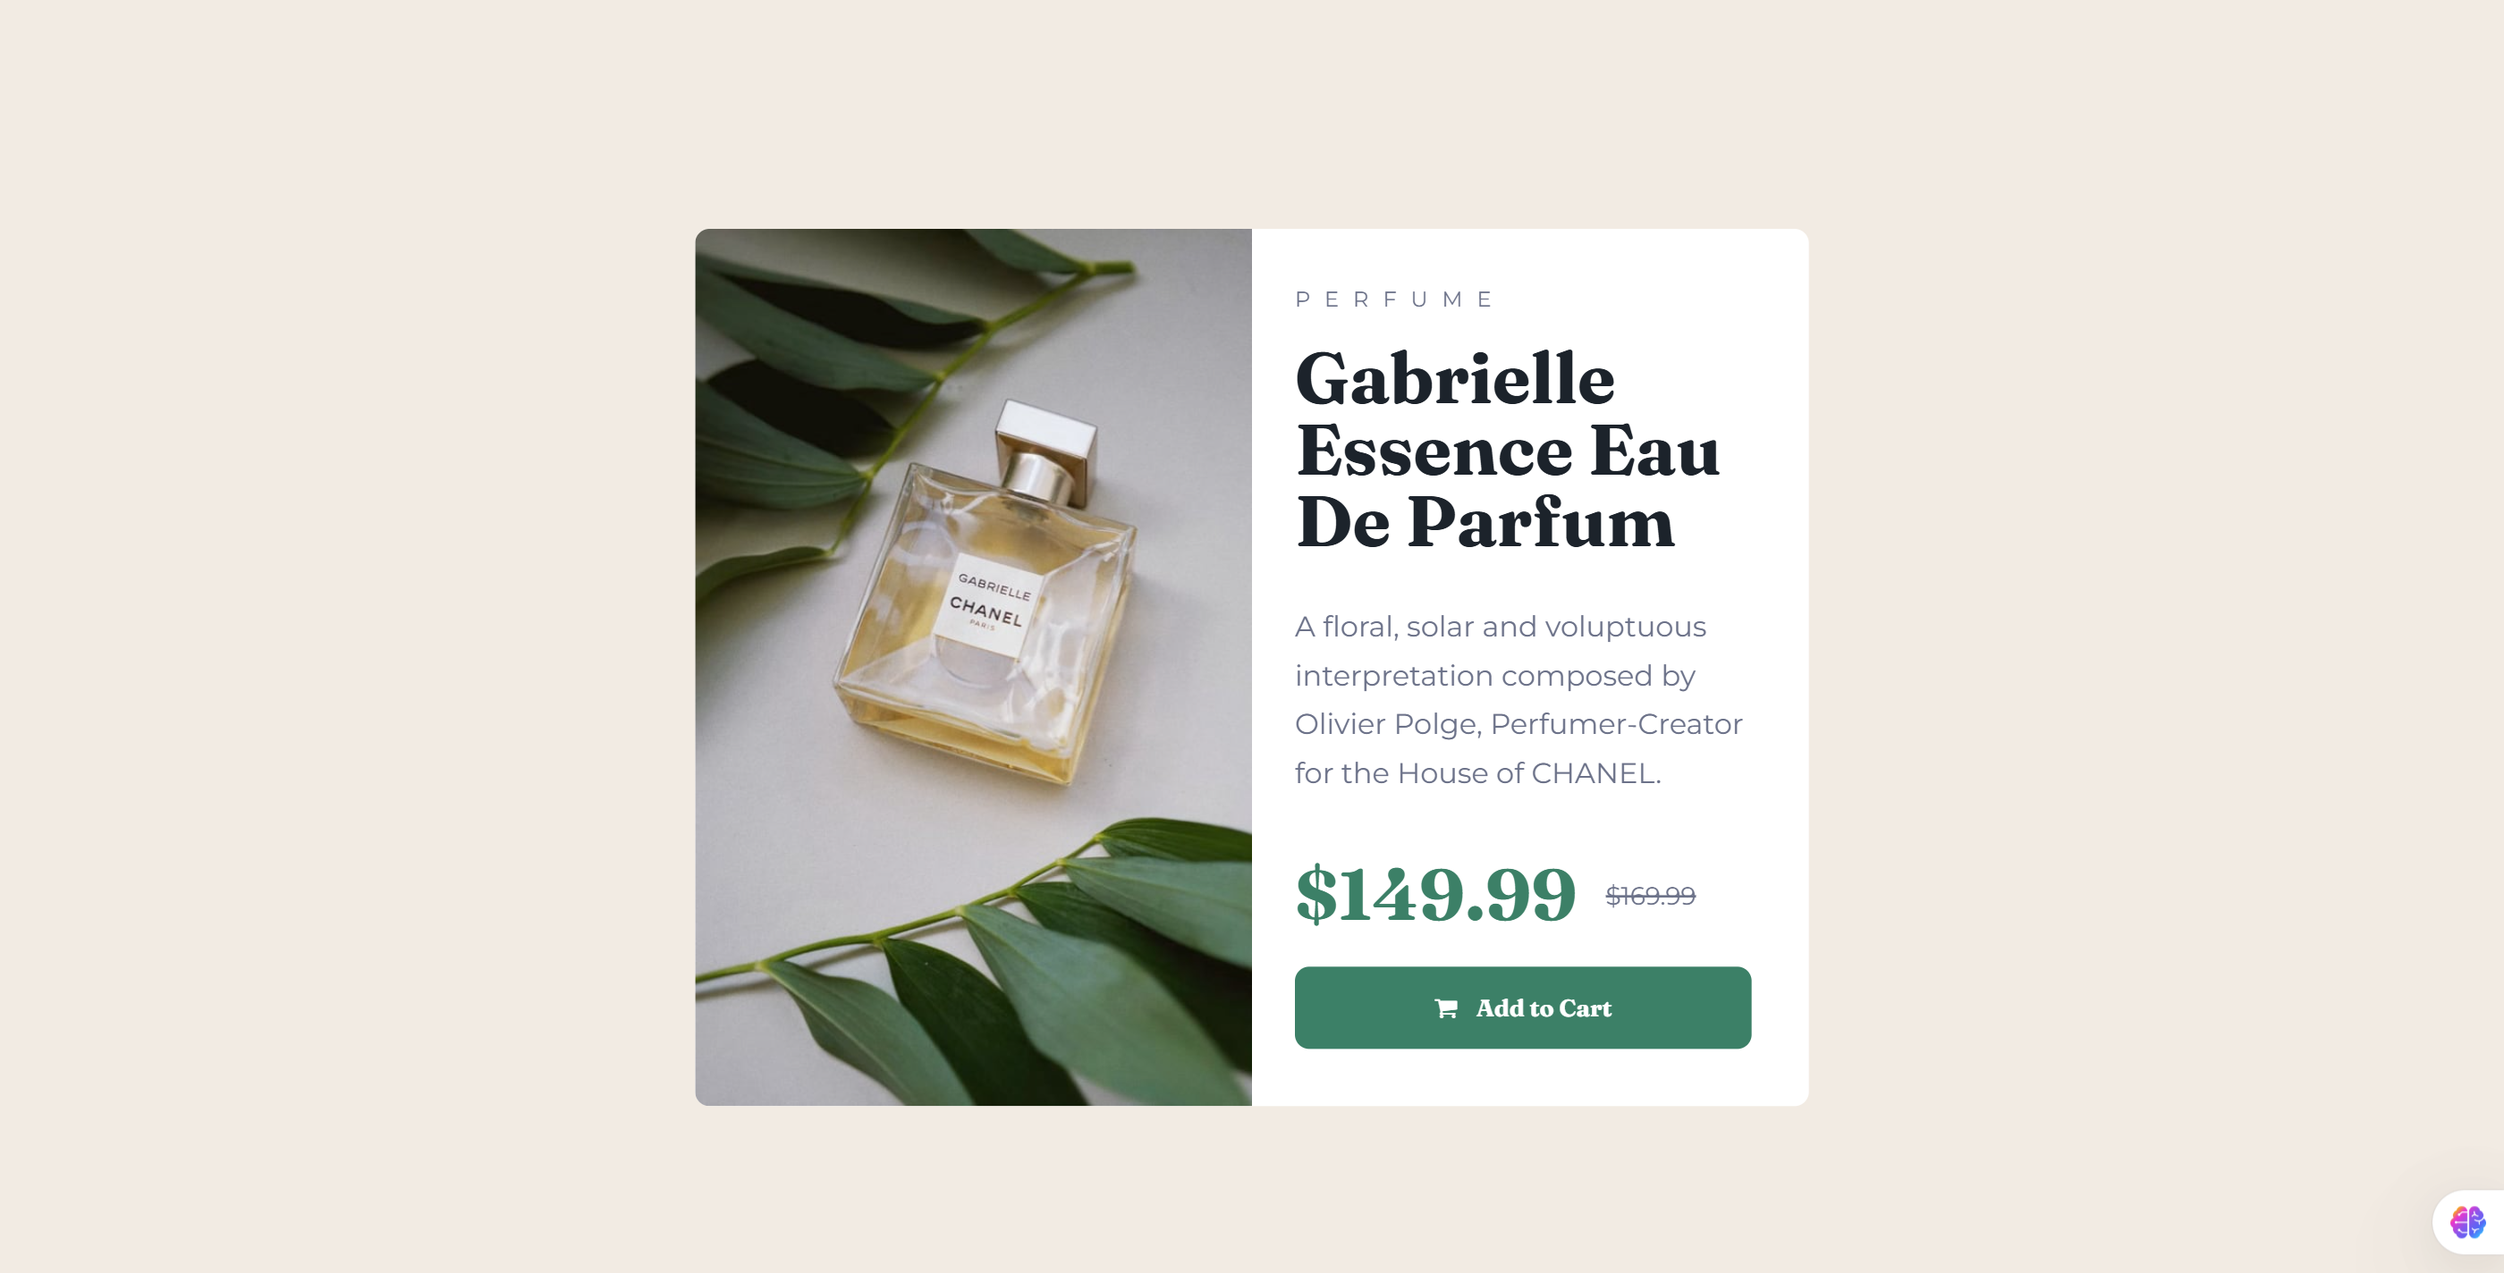
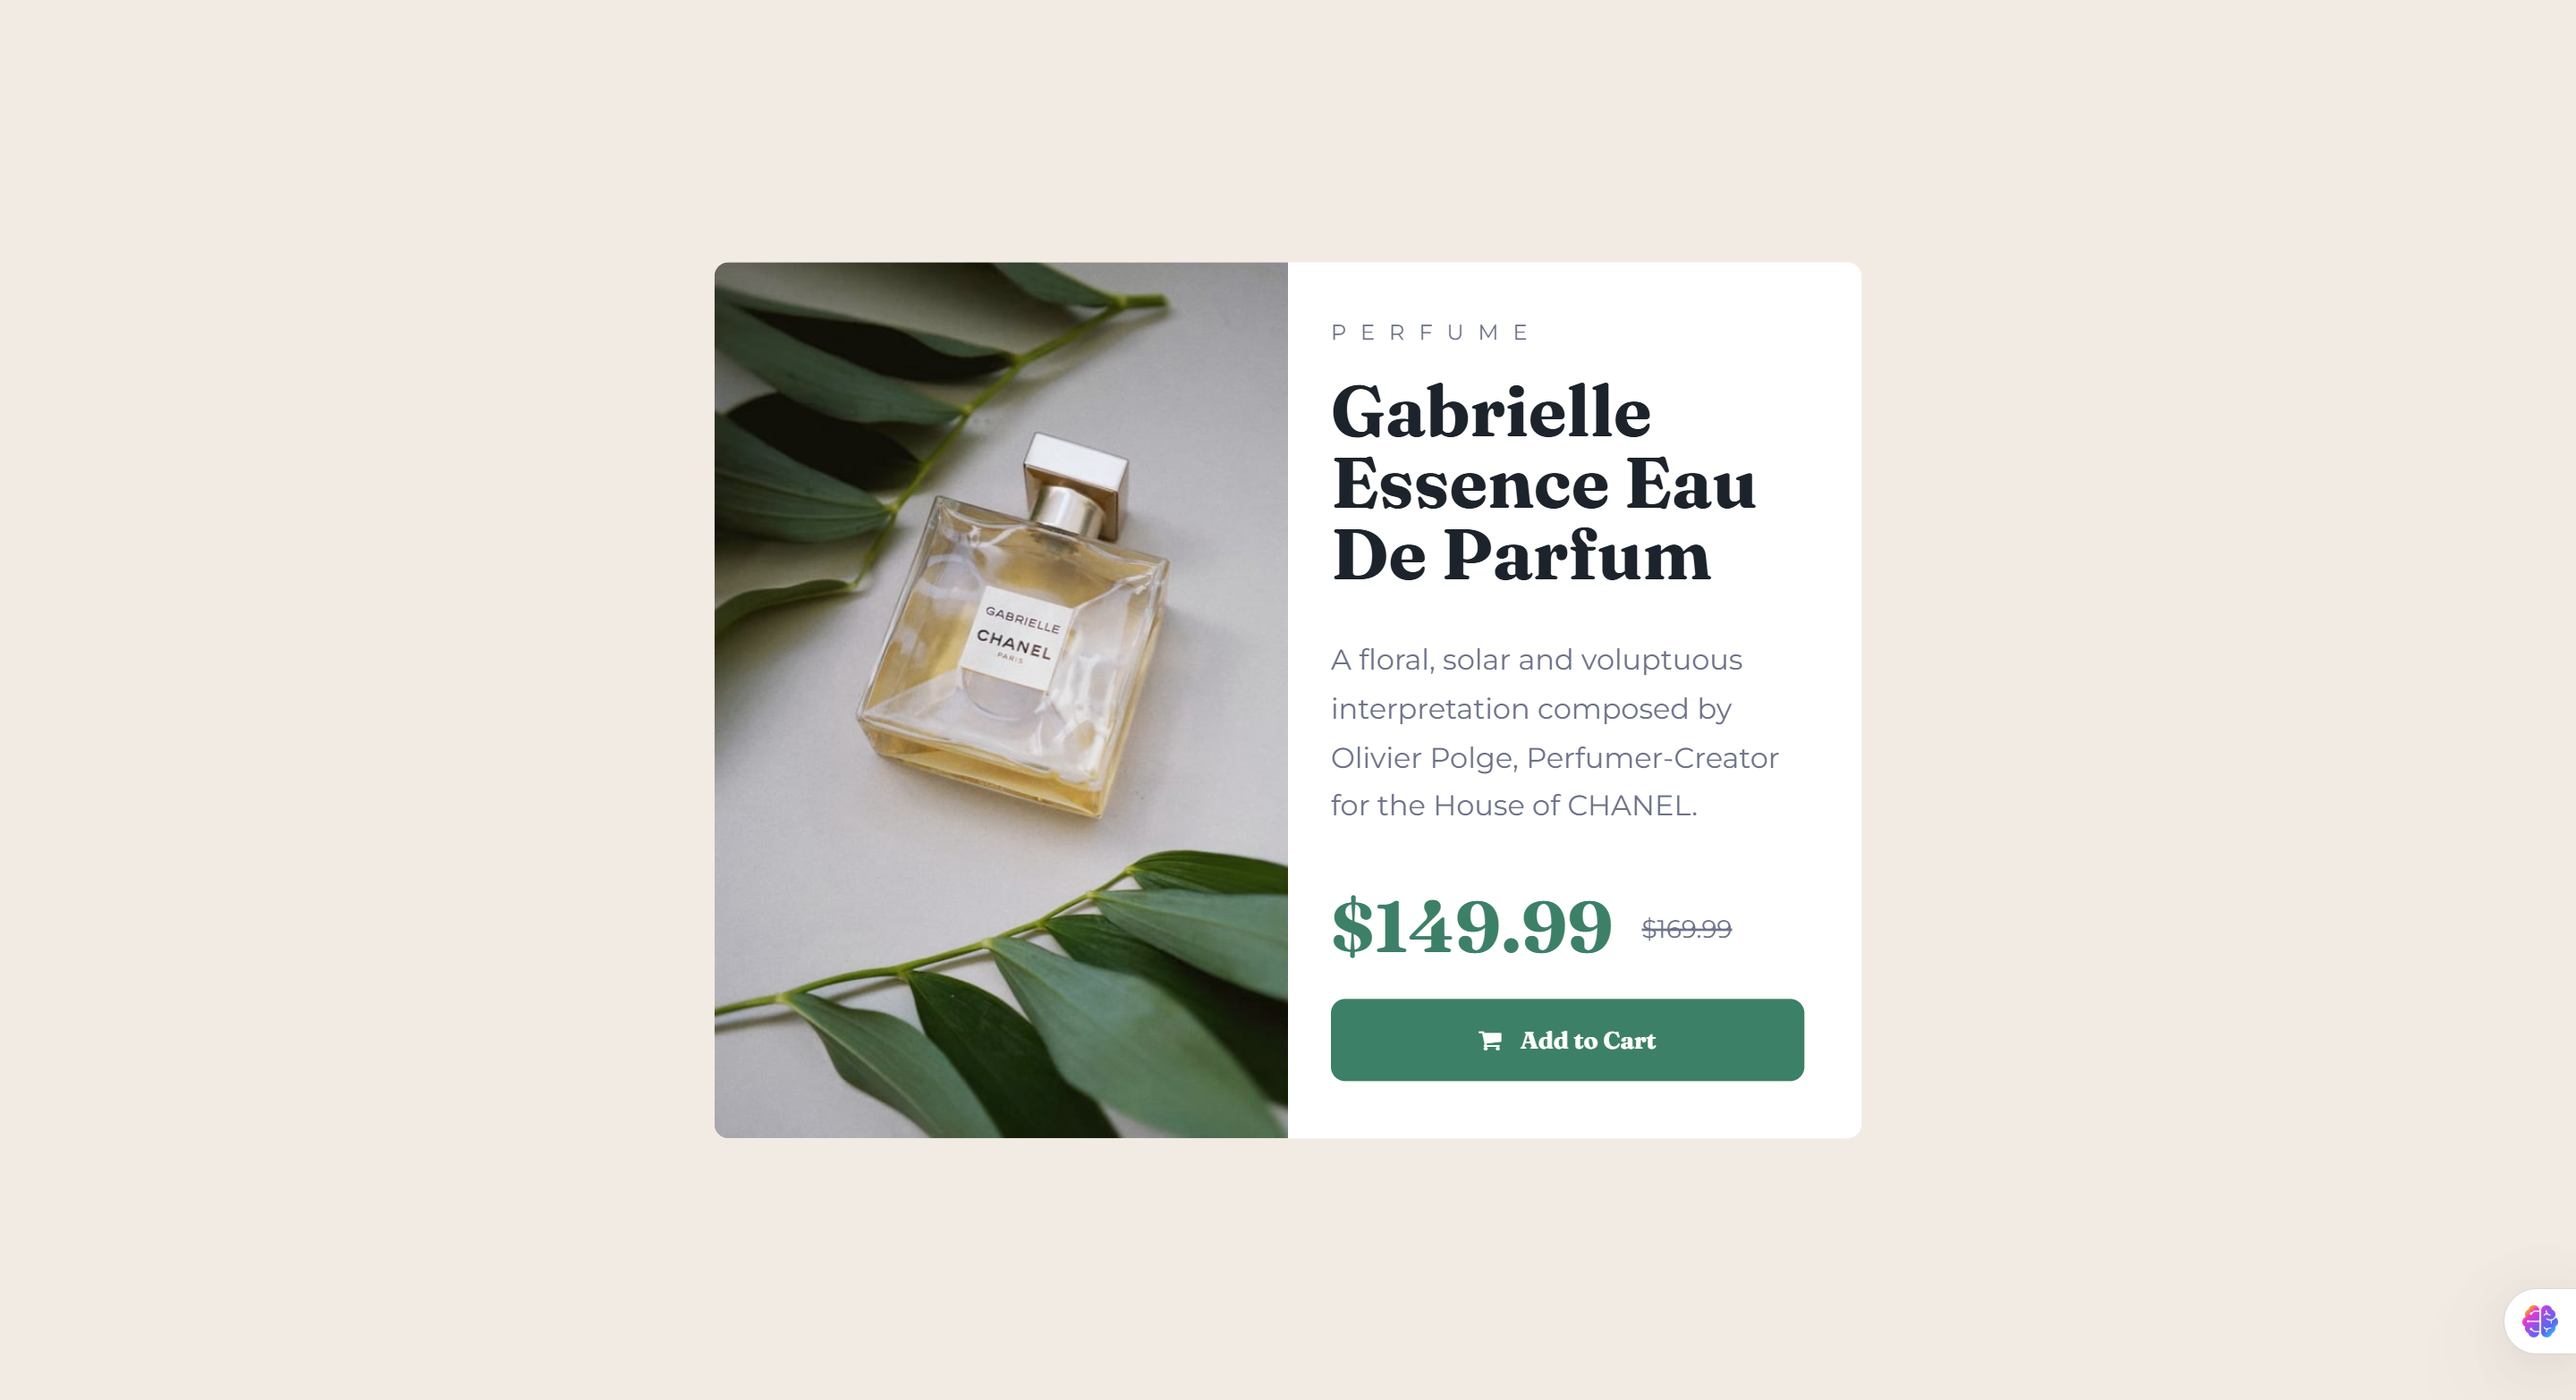
some changes

diff --git a/style.css b/style.css
@@ -21,6 +21,9 @@ img {
 
 body {
     background-color: var(--Cream);
+    display: grid;
+    place-items: center;
+    min-height: 100vh;
 }
 
 p {
@@ -30,6 +33,7 @@ p {
 }
 
 .container {}
+
 /* - Mobile: 375px */
 .card {
     background-color: #fff;
@@ -39,15 +43,17 @@ p {
     padding-bottom: 2em 0;
 }
 
-.mobil-img{
+.mobil-img {
     border-top-left-radius: 8px;
     border-top-right-radius: 8px;
 }
-.desktop-img{
+
+.desktop-img {
     display: none;
 }
+
 .product_info {
-padding: 2em;
+    padding: 2em;
 
 }
 
@@ -68,27 +74,30 @@ padding: 2em;
 
 }
 
-.product_des{
+.product_des {
     line-height: 2;
     width: 100%;
     font-size: 14px;
     margin-bottom: 0;
 }
 
-.price{
+.price {
     display: flex;
     align-items: center;
 }
-.price-new{
+
+.price-new {
     font-family: "Fraunces", serif;
     color: var(--Dark-cyan);
     font-size: 700;
     font-size: 2rem;
 }
-.price-old{
+
+.price-old {
     margin-left: 1rem;
 }
-.product-btn{
+
+.product-btn {
     background-color: var(--Dark-cyan);
     border: 0;
     color: var(--White);
@@ -97,120 +106,141 @@ padding: 2em;
     border-radius: 0.5rem;
     font-family: "Fraunces", serif;
 }
-.cart{
+
+.cart {
     margin-right: 0.5rem;
 }
+
 /* Small devices (portrait tablets and large phones, 600px and up) */
 @media (min-width: 600px) {
-   .card{
-    width: 80%;
-    margin: 0  auto;
-    margin-top: 5.3rem;
-    display: flex;
-   }
-   .mobil-img{
-    display: none;
-   }
-   .product_info{
-    width: 50%;
-    padding-left: 1.5rem;
-   }
-   .desktop-img{
-    width: 50%;
-    display: flex;
-    border-bottom-left-radius: 0.5rem;
-    border-top-left-radius: 0.5rem;
+    .card {
+        width: 80%;
+        margin: 0 auto;
+
+        display: flex;
+    }
+
+    .mobil-img {
+        display: none;
+    }
+
+    .product_info {
+        width: 50%;
+        padding-left: 1.5rem;
+    }
+
+    .desktop-img {
+        width: 50%;
+        display: flex;
+        border-bottom-left-radius: 0.5rem;
+        border-top-left-radius: 0.5rem;
+    }
+
+    .product-title {
+        letter-spacing: 8px;
+    }
+
+    .product-name {
+        font-size: 1.5rem;
+        margin-top: 1rem;
+    }
+
+    .product_des {
+        font-size: 12px;
+        margin-bottom: 0;
+        padding-bottom: 0;
+    }
+
+    .price-new {
+        margin-top: 0.8rem;
+        margin-bottom: 1rem;
+    }
 }
-.product-title{
-    letter-spacing: 8px;
-}
-   .product-name{
-    font-size: 1.5rem;
-    margin-top: 1rem;
-   }
-   .product_des{
-    font-size: 12px;
-    margin-bottom: 0;
-    padding-bottom: 0;
-   }
-   .price-new{
-    margin-top: 0.8rem;
-    margin-bottom: 1rem;
-   }
-}
+
 /* Medium devices (landscape tablets, 768px and up) */
 @media (min-width: 768px) {
-    .card{
+    .card {
         width: 65%
     }
-    .desktop-img{
 
-    }
-    .product-name{
+    .desktop-img {}
+
+    .product-name {
         font-size: 1.5rem;
     }
-    .product_des{
+
+    .product_des {
         font-size: 0.7rem;
     }
 }
+
 /* Large devices (laptops/desktops, 992px and up) */
 @media (min-width: 950px) {
-       .card{
+    .card {
         width: 50%;
-       }
-       .product-name{
+    }
+
+    .product-name {
         font-size: 1.8rem;
-       }
+    }
 }
+
 /*  Extra Large devices (large laptops and desktops) */
 @media (min-width: 1024px) {
-    .card{
+    .card {
         width: 65%;
     }
-    .product-name{
+
+    .product-name {
         font-size: 2.2rem;
     }
-    .product_des{
+
+    .product_des {
         font-size: 1.1rem;
         margin-bottom: 0.5rem;
     }
 
 }
+
 /* DESKTOP - Desktop: 1440px*/
 @media (min-width:1200px) {
-    .card{
+    .card {
         width: 40%;
-        margin-top: 5.5rem;
+
     }
-    .desktop-img .product_info{
+
+    .desktop-img .product_info {
         width: 30%;
     }
-   .product-name{
-    font-size: 1.8rem;
-   }
-   .product_des{
-    font-size: 12px;
-   }
+
+    .product-name {
+        font-size: 1.8rem;
+    }
+
+    .product_des {
+        font-size: 12px;
+    }
 }
+
 /* 1440PX DESKTOP VIEW */
 
 @media (min-width:1400px) {
-    .card{
+    .card {
         width: 45%;
-        margin-top: 8rem;
     }
-   .product-name{
-    font-size: 2.5rem;
-   }
-   .product_des{
-    font-size: 1rem;
-    margin-bottom: 1rem;
-    line-height: 1.7;
-   }
-   .price-new{
-    font-size: 2.5rem;
-    margin-bottom: 1rem;
-   }
+
+    .product-name {
+        font-size: 2.5rem;
+    }
+
+    .product_des {
+        font-size: 1rem;
+        margin-bottom: 1rem;
+        line-height: 1.7;
+    }
+
+    .price-new {
+        font-size: 2.5rem;
+        margin-bottom: 1rem;
+    }
 }
-
-

diff --git a/index.html b/index.html
@@ -18,7 +18,7 @@
 </head>
 
 <body>
-  <main class="card" role="region">
+  <main class="card" role="note">
       <div class="">
         <img class="mobil-img" src="images/image-product-mobile.jpg" alt="product image">
       </div>

diff --git a/README.md b/README.md
@@ -17,7 +17,7 @@ Users should be able to:
 
 ### Screenshot
 
-![](/screen-shot/DESKTOP.png)
+![](/screen-shot/Desktop.png)
 ![](/screen-shot/FireShot%20Capture%20Mobile-version.png)
 
 ### Links
